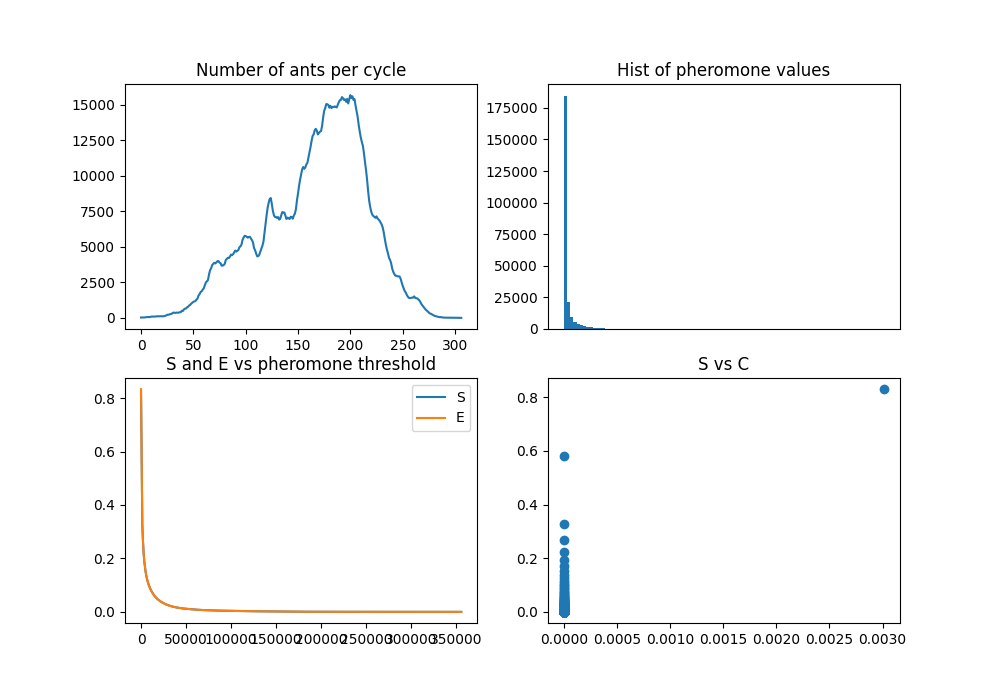
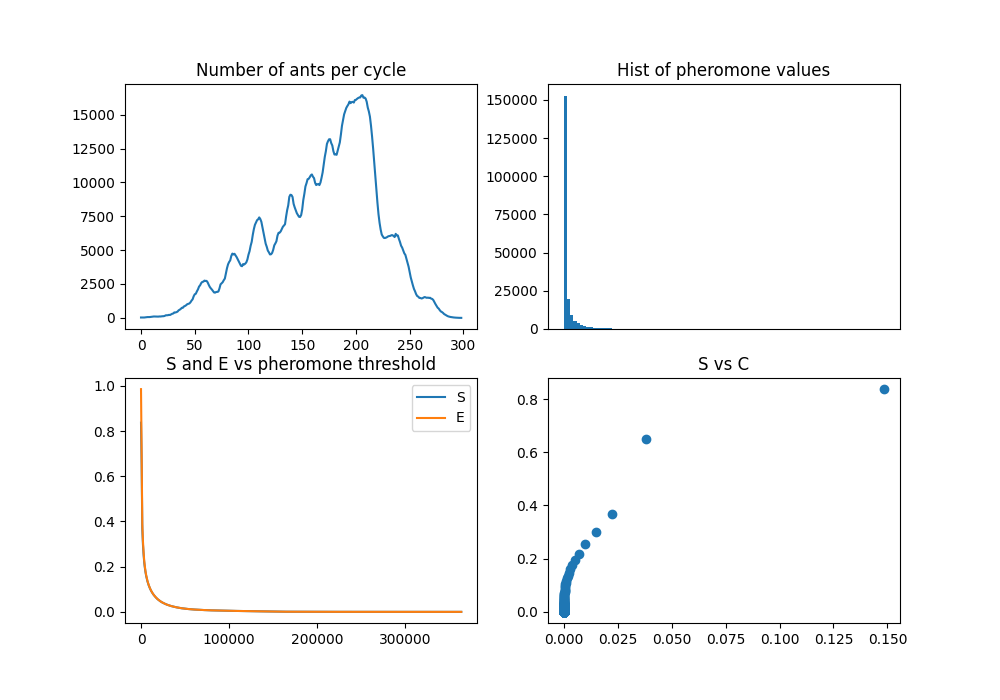
updated docstrings

diff --git a/src/main.py b/src/main.py
@@ -170,24 +170,24 @@ def plot_display(
         [plot_1, plot_2, plot_3, plot_4], [ax[0][0], ax[0][1], ax[1][0], ax[1][1]]
     ):
         plt.colorbar(plot, ax=ax)
-    plt.savefig("../results/CAM_results.png")
+    #plt.savefig("../results/CAM_results.png")
 
 
-def pool_initializer(pheromone_matrix, pheromone_matrix_shape):
+def pool_initializer(pheromone_matrix_shared, pheromone_matrix_shape):
     """Function to be used as the Pool initializer to share the
     pheromone map between the processes instantiated by Pool.map.
     Sets the pheromone map and its shape as global variables.
 
     Args
     ----
-    Pheromone_Map : ndarray
+    pheromone_matrix_shared : ndarray
         The RawArray from multiprocessing used to share the pheromone map.
 
-    Pheromone_Map_shape : tuple[int]
+    pheromone_matrix_shape : tuple[int]
         The shape of the pheromone map.
     """
     global np_x
-    np_x = pheromone_matrix
+    np_x = pheromone_matrix_shared
     global np_x_shape
     np_x_shape = pheromone_matrix_shape
 
@@ -196,7 +196,10 @@ def statistics(ants_number, image_matrix, pheromone_matrix):
     """Provides statistics about the run such as: the number of
     non-zero image voxels, the number of voxels visited by the ants,
     the visited voxels which are also part of the non-zero image
-    voxels and the respective number of visits.
+    voxels and the respective number of visits. It also provides the
+    algorithm evaluation metrics such as sensitivity, exploration and
+    contamination level (defined in the documentation) as functions
+    of the pheromone threshold.
 
     Args
     ----
@@ -210,7 +213,7 @@ def statistics(ants_number, image_matrix, pheromone_matrix):
         The pheromone map.
     """
 
-    image_voxels = np.transpose(np.array(np.nonzero(image_matrix>100))).reshape(-1, 3)
+    image_voxels = np.transpose(np.array(np.nonzero(image_matrix>200))).reshape(-1, 3)
     visited_voxs = np.unique(
         np.transpose(np.array(np.nonzero(pheromone_matrix[:, :, :, 0]))).reshape(-1, 3),
         axis=0,
@@ -257,7 +260,7 @@ def statistics(ants_number, image_matrix, pheromone_matrix):
     _, ax = plt.subplots(2, 2, figsize=(10, 7))
     ax[0][0].plot(ants_number)
     ax[0][0].set_title("Number of ants per cycle")
-    ax[0][1].hist(common_dict.values(), bins=100)
+    ax[0][1].hist(common_dict.values(), bins="sqrt")
     ax[0][1].set_title("Hist of pheromone values")
     ax[0][1].set_xticks([])
     ax[1][0].plot(pheromone_threshold, sensitivity, label="S")
@@ -266,7 +269,7 @@ def statistics(ants_number, image_matrix, pheromone_matrix):
     ax[1][0].set_title("S and E vs pheromone threshold")
     ax[1][1].plot(cont_level, sensitivity, marker="o", linestyle="")
     ax[1][1].set_title("S vs C")
-    plt.savefig("../results/CAM_statistics.png")
+    #plt.savefig("../results/CAM_statistics.png")
 
 
 def set_image_and_pheromone(file_path):
